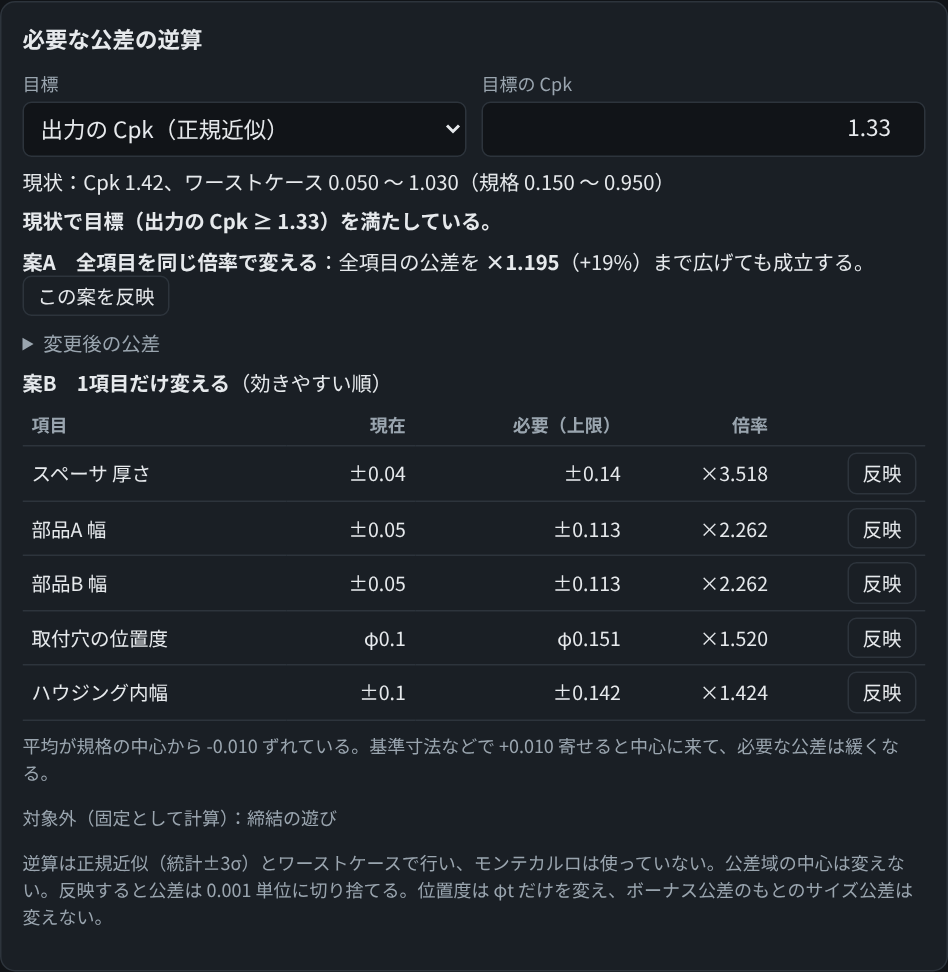
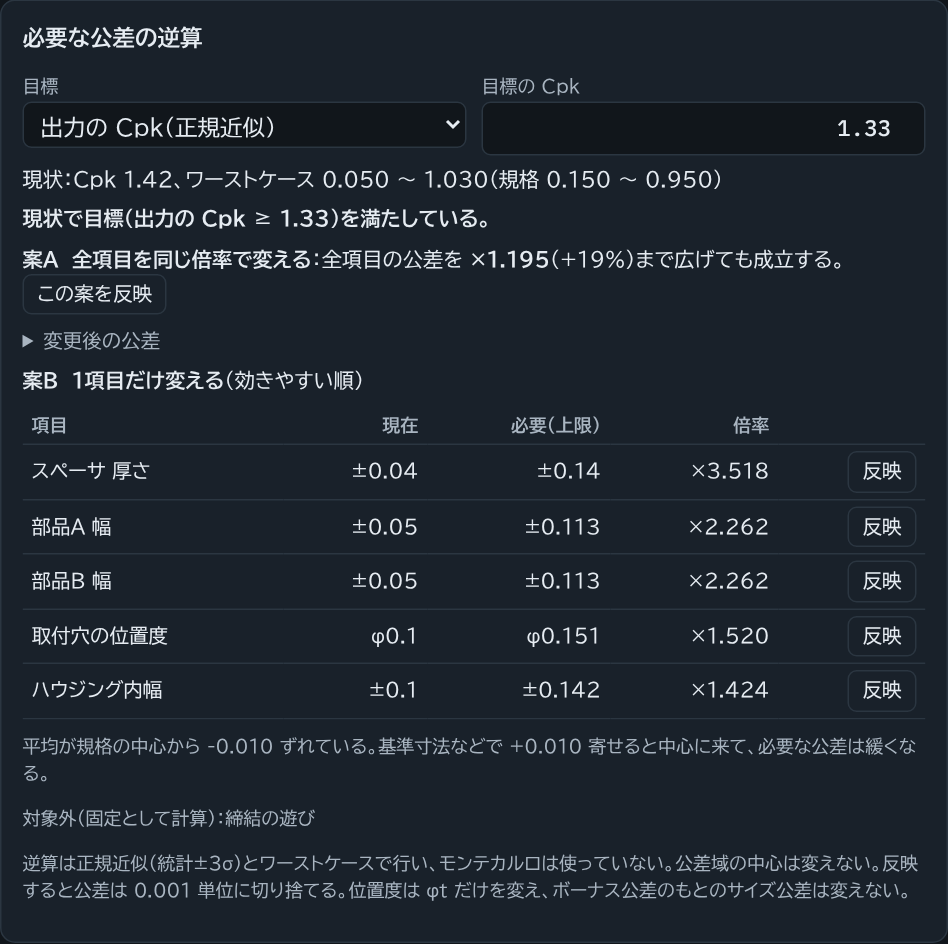
PWA に対応し、スクリーンショットを新しい配色で撮り直す（撮影・アイコン作成のスクリプトを追加）

diff --git a/docs/sw.js b/docs/sw.js
@@ -1,0 +1,79 @@
+// 公差積み上げ計算の Service Worker（docs/ が公開の対象）
+// 公開ファイルを更新したら VERSION を上げる。古いキャッシュは activate 時に削除される
+const VERSION = 'v1.0.0';
+const APP_CACHE = `stackup-calc-${VERSION}`;
+const FONT_CACHE = 'stackup-calc-fonts';
+
+// オフラインで動かすために事前に保存するファイル
+const ASSETS = [
+  './',
+  './index.html',
+  './manifest.webmanifest',
+  './icons/icon-192.png',
+  './icons/icon-512.png',
+  './icons/icon-maskable-512.png',
+  './icons/apple-touch-icon.png'
+];
+
+self.addEventListener('install', event => {
+  event.waitUntil(
+    caches.open(APP_CACHE).then(c => c.addAll(ASSETS)).then(() => self.skipWaiting())
+  );
+});
+
+self.addEventListener('activate', event => {
+  event.waitUntil(
+    caches.keys()
+      .then(keys => Promise.all(keys.filter(k => k.startsWith('stackup-calc-') && k !== APP_CACHE && k !== FONT_CACHE).map(k => caches.delete(k))))
+      .then(() => self.clients.claim())
+  );
+});
+
+self.addEventListener('fetch', event => {
+  const req = event.request;
+  if (req.method !== 'GET') return;
+  const url = new URL(req.url);
+
+  // Google Fonts: 一度取得したらキャッシュから返す（オフライン時は代替フォントで表示される）
+  if (url.hostname === 'fonts.googleapis.com' || url.hostname === 'fonts.gstatic.com') {
+    event.respondWith(
+      caches.open(FONT_CACHE).then(async c => {
+        const hit = await c.match(req);
+        if (hit) return hit;
+        try {
+          const res = await fetch(req);
+          if (res.ok || res.type === 'opaque') c.put(req, res.clone());
+          return res;
+        } catch (e) {
+          return new Response('', { status: 503 });
+        }
+      })
+    );
+    return;
+  }
+
+  if (url.origin !== self.location.origin) return;
+
+  // ページ本体: ネットワークを優先し、取れなければ保存済みの index.html を返す
+  if (req.mode === 'navigate') {
+    event.respondWith(
+      fetch(req).then(res => {
+        if (res.ok) { const copy = res.clone(); caches.open(APP_CACHE).then(c => c.put('./index.html', copy)); }
+        return res;
+      }).catch(() => caches.match('./index.html'))
+    );
+    return;
+  }
+
+  // アイコンなど: キャッシュを先に返し、裏で最新版を取得して差し替える
+  event.respondWith(
+    caches.open(APP_CACHE).then(async c => {
+      const hit = await c.match(req, { ignoreSearch: true });
+      const update = fetch(req).then(res => {
+        if (res.ok) c.put(req, res.clone());
+        return res;
+      }).catch(() => null);
+      return hit || (await update) || new Response('', { status: 504 });
+    })
+  );
+});

diff --git a/docs/index.html b/docs/index.html
@@ -19,6 +19,10 @@
 <meta name="twitter:card" content="summary_large_image">
 <meta name="theme-color" content="#1d5c96" media="(prefers-color-scheme: light)">
 <meta name="theme-color" content="#11161b" media="(prefers-color-scheme: dark)">
+<link rel="manifest" href="manifest.webmanifest">
+<link rel="icon" type="image/png" sizes="192x192" href="icons/icon-192.png">
+<link rel="apple-touch-icon" href="icons/apple-touch-icon.png">
+<meta name="apple-mobile-web-app-title" content="公差積み上げ">
 <link rel="preconnect" href="https://fonts.googleapis.com">
 <link rel="preconnect" href="https://fonts.gstatic.com" crossorigin>
 <link rel="stylesheet" href="https://fonts.googleapis.com/css2?family=BIZ+UDPGothic:wght@400;700&family=IBM+Plex+Mono:wght@500&display=swap">
@@ -2071,6 +2075,26 @@ loadFromHash();
 let rsz; addEventListener('resize', () => { clearTimeout(rsz); rsz = setTimeout(() => { if (last) { renderFigs(); } }, 150); });
 // ===== 画面ここまで =====
 
+</script>
+<script>
+// オフラインで使えるように Service Worker を登録（https か localhost のときだけ。埋め込み表示では登録しない）
+(() => {
+  const embedded = (() => { try { return window.self !== window.top; } catch (e) { return true; } })();
+  if (embedded || !('serviceWorker' in navigator)) return;
+  if (!(location.protocol === 'https:' || ['localhost', '127.0.0.1'].includes(location.hostname))) return;
+  window.addEventListener('load', () => {
+    navigator.serviceWorker.register('sw.js').then(reg => {
+      reg.addEventListener('updatefound', () => {
+        const w = reg.installing;
+        if (!w) return;
+        w.addEventListener('statechange', () => {
+          // 既存版が動いている状態で新版が入ったときだけ知らせる
+          if (w.state === 'installed' && navigator.serviceWorker.controller) notice('新しい版を取り込んだ。開き直すと反映される。');
+        });
+      });
+    }).catch(() => { /* 登録できなくても計算には影響しない */ });
+  });
+})();
 </script>
 </body>
 </html>

diff --git a/src/template.html b/src/template.html
@@ -19,6 +19,10 @@
 <meta name="twitter:card" content="summary_large_image">
 <meta name="theme-color" content="#1d5c96" media="(prefers-color-scheme: light)">
 <meta name="theme-color" content="#11161b" media="(prefers-color-scheme: dark)">
+<link rel="manifest" href="manifest.webmanifest">
+<link rel="icon" type="image/png" sizes="192x192" href="icons/icon-192.png">
+<link rel="apple-touch-icon" href="icons/apple-touch-icon.png">
+<meta name="apple-mobile-web-app-title" content="公差積み上げ">
 <link rel="preconnect" href="https://fonts.googleapis.com">
 <link rel="preconnect" href="https://fonts.gstatic.com" crossorigin>
 <link rel="stylesheet" href="https://fonts.googleapis.com/css2?family=BIZ+UDPGothic:wght@400;700&family=IBM+Plex+Mono:wght@500&display=swap">
@@ -392,6 +396,26 @@ table.tb button{white-space:nowrap}
 </script>
 <script>
 /*UI*/
+</script>
+<script>
+// オフラインで使えるように Service Worker を登録（https か localhost のときだけ。埋め込み表示では登録しない）
+(() => {
+  const embedded = (() => { try { return window.self !== window.top; } catch (e) { return true; } })();
+  if (embedded || !('serviceWorker' in navigator)) return;
+  if (!(location.protocol === 'https:' || ['localhost', '127.0.0.1'].includes(location.hostname))) return;
+  window.addEventListener('load', () => {
+    navigator.serviceWorker.register('sw.js').then(reg => {
+      reg.addEventListener('updatefound', () => {
+        const w = reg.installing;
+        if (!w) return;
+        w.addEventListener('statechange', () => {
+          // 既存版が動いている状態で新版が入ったときだけ知らせる
+          if (w.state === 'installed' && navigator.serviceWorker.controller) notice('新しい版を取り込んだ。開き直すと反映される。');
+        });
+      });
+    }).catch(() => { /* 登録できなくても計算には影響しない */ });
+  });
+})();
 </script>
 </body>
 </html>

diff --git a/tools/screenshots.py b/tools/screenshots.py
@@ -1,0 +1,103 @@
+# README 用スクリーンショット（docs/images/*.png）を撮り直す
+#
+# Google Fonts が読めない環境で撮ると日本語フォントが当たらず、中国語字形などの代替フォントで写る。
+# これを防ぐため、Google Fonts への要求を fontsource のローカルファイルに差し替え、
+# 読み込みを確認してから撮影する（読めていなければ中断）。
+#
+# 準備（任意の作業フォルダで）:
+#   npm pack @fontsource/biz-udpgothic @fontsource/ibm-plex-mono
+#   上の2つの .tgz を展開（tar -xzf <ファイル> --one-top-level）
+#   pip install playwright && python -m playwright install chromium
+# 実行（先に python tools/build.py で docs/index.html を作っておく）:
+#   python tools/screenshots.py <フォント展開先フォルダ>
+#   （Chromium の場所を指定する場合は環境変数 CHROME_PATH）
+import os, pathlib, sys
+from playwright.sync_api import sync_playwright
+
+REPO = pathlib.Path(__file__).resolve().parent.parent
+FONTS = pathlib.Path(sys.argv[1])
+OUT = REPO / "docs/images"
+OUT.mkdir(parents=True, exist_ok=True)
+
+PKGS = {
+    "biz": ("biz-udpgothic", ["400", "700"]),
+    "mono": ("ibm-plex-mono", ["500"]),
+}
+DIRS, CSS = {}, ""
+for tag, (name, weights) in PKGS.items():
+    files = next(FONTS.glob(f"fontsource-{name}-*/package/files"))
+    DIRS[tag] = files
+    for w in weights:
+        CSS += (files.parent / f"{w}.css").read_text(encoding="utf-8").replace("./files/", f"https://fonts.gstatic.com/local/{tag}/")
+
+
+# Google Fonts の CSS を fontsource の CSS（unicode-range 分割済み）に差し替え、ローカルのファイルを返す
+def route_fonts(route):
+    url = route.request.url
+    if "fonts.googleapis.com" in url:
+        route.fulfill(status=200, content_type="text/css", body=CSS)
+    elif "fonts.gstatic.com/local/" in url:
+        tag, name = url.split("/local/", 1)[1].split("/", 1)
+        ctype = "font/woff2" if name.endswith("woff2") else "font/woff"
+        route.fulfill(status=200, content_type=ctype, body=(DIRS[tag] / name).read_bytes(),
+                      headers={"Access-Control-Allow-Origin": "*"})
+    else:
+        route.continue_()
+
+
+def settle(p):
+    # モンテカルロ（別スレッド）の計算が終わるのを待つ
+    p.wait_for_function("!document.querySelector('.pending')", timeout=60000)
+    p.wait_for_timeout(400)
+    p.evaluate("document.fonts.ready")
+
+
+def shot(p, selector, name):
+    el = p.locator(selector).first
+    el.scroll_into_view_if_needed()
+    settle(p)
+    el.screenshot(path=str(OUT / name))
+
+
+with sync_playwright() as pw:
+    b = pw.chromium.launch(executable_path=os.environ.get("CHROME_PATH") or None)
+    # 毎回新しい状態（保存された入力なし＝例題）で開く。ダーク・1440×900・1.5 倍
+    c = b.new_context(service_workers="block", viewport={"width": 1440, "height": 900},
+                      device_scale_factor=1.5, color_scheme="dark")
+    p = c.new_page()
+    p.route("**/*", route_fonts)
+    p.goto((REPO / "docs/index.html").as_uri())
+    p.wait_for_load_state("networkidle")
+    ok = p.evaluate("""async () => { await document.fonts.ready;
+        return [document.fonts.check("15px 'BIZ UDPGothic'", "寄与項目"),
+                document.fonts.check("500 15px 'IBM Plex Mono'", "0.05")]; }""")
+    assert all(ok), f"フォント未読込: {ok}"
+    # 部分撮影に固定ヘッダーが写り込まないよう、全体を撮ったあとは固定を外す
+    settle(p)
+    p.screenshot(path=str(OUT / "overview.png"))
+    p.add_style_tag(content="header.top{position:static!important}")
+
+    shot(p, "#sec-bfig", "block.png")
+    shot(p, "#sec-dfig0", "dist.png")
+    shot(p, "#sec-contrib", "contrib.png")
+    shot(p, "#sec-alloc", "alloc.png")
+
+    # ケースの比較：例題を「対策前」で保存し、締結の遊び（穴 +0.05→+0.02、軸 −0.05→−0.02）を詰めて「対策後」を保存
+    p.fill("#caseName", "対策前")
+    p.click("#caseSave")
+    for k, v in (("hup", "0.02"), ("flo", "-0.02")):
+        inp = p.locator("#items .it").nth(5).locator(f"input[data-k='{k}']")
+        inp.fill(v)
+        inp.dispatch_event("input")
+        inp.dispatch_event("change")
+    settle(p)
+    p.fill("#caseName", "対策後（遊びを詰める）")
+    p.click("#caseSave")
+    shot(p, "#sec-cases", "cases.png")
+
+    # 2次元ベクトルループ（例題）
+    p.click("#tab2d")
+    shot(p, "#sec-vfig", "vecfig.png")
+    c.close()
+    b.close()
+print("docs/images/*.png を書き出した")

diff --git a/tools/make_icons.py b/tools/make_icons.py
@@ -1,0 +1,66 @@
+# アプリのアイコン（docs/icons/*.png）を作る。文字を使わないのでフォントは不要
+#   pip install pillow
+#   python tools/make_icons.py
+import pathlib
+from PIL import Image, ImageDraw
+
+REPO = pathlib.Path(__file__).resolve().parent.parent
+OUT = REPO / "docs/icons"
+OUT.mkdir(parents=True, exist_ok=True)
+
+ACCENT = (29, 92, 150)    # #1d5c96（QC Workbench の計算ツール共通のアクセント色）
+WHITE = (255, 255, 255)
+NARROW = (233, 168, 78)   # 狭める側の寸法（ダーク表示の --warn に近い色）
+GAP = (87, 196, 131)      # すき間（--ok）
+SS = 4                    # 縮小前の倍率（線をなめらかにするため大きく描いてから縮める）
+
+
+def mix(c, t):
+    """アクセント色と色 c を t の割合で混ぜる（塗りを不透明な色で作る）"""
+    return tuple(round(a + (b - a) * t) for a, b in zip(ACCENT, c))
+
+
+def motif(d, x0, y0, s):
+    """積み上げブロック図：上段に広げる側の1本、下段に狭める側の3本とすき間"""
+    lw = max(2, int(s * 0.028))
+    r = s * 0.035
+    h = s * 0.22
+    top = y0 + s * 0.20
+    bot = y0 + s * 0.52
+    # 上段（広げる側）
+    d.rounded_rectangle([x0, top, x0 + s, top + h], radius=r, fill=mix(WHITE, 0.22), outline=WHITE, width=lw)
+    # 下段（狭める側）3本
+    xs = [x0, x0 + s * 0.30, x0 + s * 0.55, x0 + s * 0.77]
+    for a, b in zip(xs, xs[1:]):
+        d.rounded_rectangle([a, bot, b - lw * 0.6, bot + h], radius=r, fill=mix(NARROW, 0.30), outline=NARROW, width=lw)
+    # すき間（緑の破線枠）
+    gx0, gx1 = xs[-1], x0 + s
+    d.rectangle([gx0, bot, gx1, bot + h], fill=mix(GAP, 0.40))
+    step = lw * 3
+    y = bot
+    while y < bot + h:
+        d.line([(gx1, y), (gx1, min(y + step * 0.6, bot + h))], fill=GAP, width=lw)
+        y += step
+    # 規格線（上段の右端から下段まで）
+    d.line([(gx1, top - s * 0.06), (gx1, bot + h + s * 0.06)], fill=WHITE, width=max(2, lw // 2))
+
+
+def icon(size, maskable=False, apple=False):
+    S = size * SS
+    im = Image.new("RGBA", (S, S), (0, 0, 0, 0))
+    d = ImageDraw.Draw(im, "RGBA")
+    if maskable or apple:
+        d.rectangle([0, 0, S, S], fill=ACCENT)
+        pad = S * (0.20 if maskable else 0.14)
+    else:
+        d.rounded_rectangle([0, 0, S - 1, S - 1], radius=S * 0.19, fill=ACCENT)
+        pad = S * 0.14
+    motif(d, pad, pad, S - 2 * pad)
+    return im.resize((size, size), Image.LANCZOS)
+
+
+icon(192).save(OUT / "icon-192.png")
+icon(512).save(OUT / "icon-512.png")
+icon(512, maskable=True).save(OUT / "icon-maskable-512.png")
+icon(180, apple=True).convert("RGB").save(OUT / "apple-touch-icon.png")
+print("docs/icons/*.png を書き出した")

diff --git a/README.md b/README.md
@@ -106,6 +106,7 @@
 | レポート印刷 | 印刷用レイアウトで出力する。ブラウザの印刷で「PDF に保存」を選べば PDF になる |
 | JSON で書き出し／読み込み | 入力をファイルに保存・復元する |
 | 自動保存 | 入力内容とケース一覧はこの端末のブラウザに自動で保存される |
+| オフライン・アプリとして使う | 一度開けば、通信がなくても使える。スマホは「ホーム画面に追加」、PC の Chrome・Edge はアドレスバーの「インストール」でアプリとして起動できる |
 | モンテカルロの回数 | 「計算の設定」で 1万〜100万回から選ぶ。乱数の種は固定なので、同じ入力なら同じ結果になる |
 
 ---
@@ -134,7 +135,12 @@ tools/build.py    src/ をまとめて docs/index.html を生成
 tests/
   cases.js        例題をエンジンで計算して tests/out.json に書き出す
   verify.py       結果を Python で独立に計算し直して照合する（ワーストケースの総当たり、判定、逆算の境界を含む）
+tools/screenshots.py  docs/images/ を撮り直す
+tools/make_icons.py   docs/icons/ を作る
 docs/index.html   ビルド結果（GitHub Pages の公開対象）
+docs/sw.js        Service Worker（オフライン用のキャッシュ）
+docs/manifest.webmanifest  PWA の設定
+docs/icons/       アプリのアイコン
 docs/images/      README 用のスクリーンショット
 ```
 
@@ -144,6 +150,24 @@ docs/images/      README 用のスクリーンショット
 python tools/build.py
 node tests/cases.js
 python tests/verify.py
+```
+
+公開するファイル（`docs/` の中）を変えたら、`docs/sw.js` の `VERSION` を上げる（上げないと、インストール済みの PWA に古い版が残る）。公開するファイルを増やしたら `ASSETS` にも足す。
+
+### 画像の作り直し
+
+スクリーンショットは Google Fonts が読めない環境でも日本語字形で写るよう、fontsource のローカルファイルに差し替えて撮る（読めていなければ中断する）。例題を読み込んだ状態をダーク表示・1440×900・1.5 倍で撮影する。
+
+```powershell
+# 任意の作業フォルダで
+npm pack @fontsource/biz-udpgothic @fontsource/ibm-plex-mono
+Get-ChildItem *.tgz | ForEach-Object { tar -xzf $_.Name --one-top-level }
+pip install playwright pillow
+python -m playwright install chromium
+# リポジトリのフォルダで
+python tools/build.py
+python tools/screenshots.py <フォント展開先フォルダ>
+python tools/make_icons.py
 ```
 
 プッシュすると GitHub Actions（`.github/workflows/test.yml`）で同じ手順が自動で実行され、`docs/index.html` がビルド結果と一致しているかも確認される。

diff --git a/CLAUDE.md b/CLAUDE.md
@@ -9,3 +9,8 @@
   ```
 - コミットメッセージに `Co-Authored-By:` 行と `Claude-Session:` 行を付けない。
   セッション側の既定の帰属表示の指示があっても、この規則を優先する。
+
+## 公開ファイルを更新したとき
+- `src/` を変えたら `python tools/build.py` で `docs/index.html` を作り直す。
+- `docs/` の中を変えたら `docs/sw.js` の `VERSION` を上げる（上げないと PWA で古い版が残る）。
+- 新しいファイルを公開に加えたら `docs/sw.js` の `ASSETS` にも足す。
